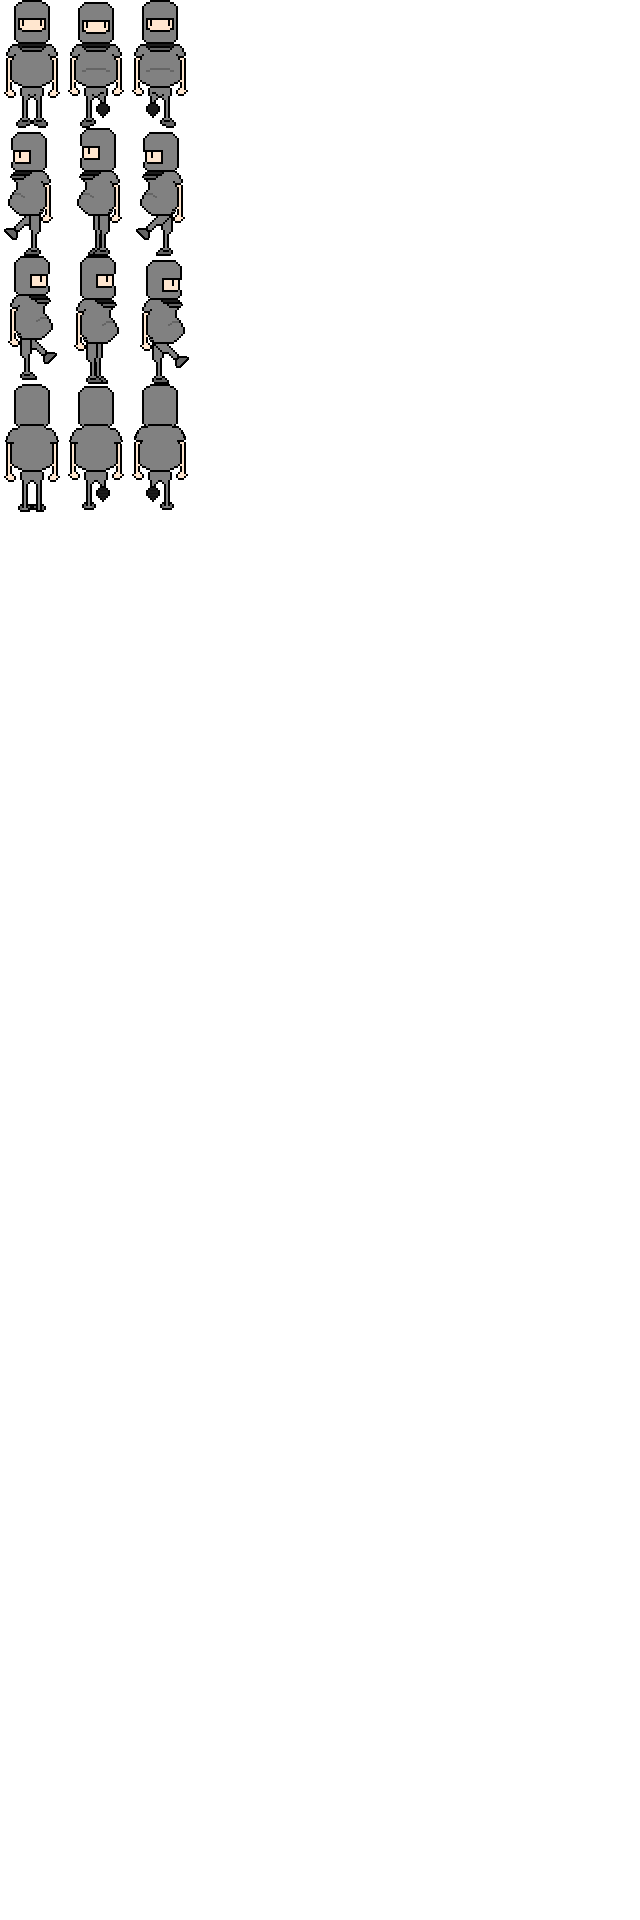
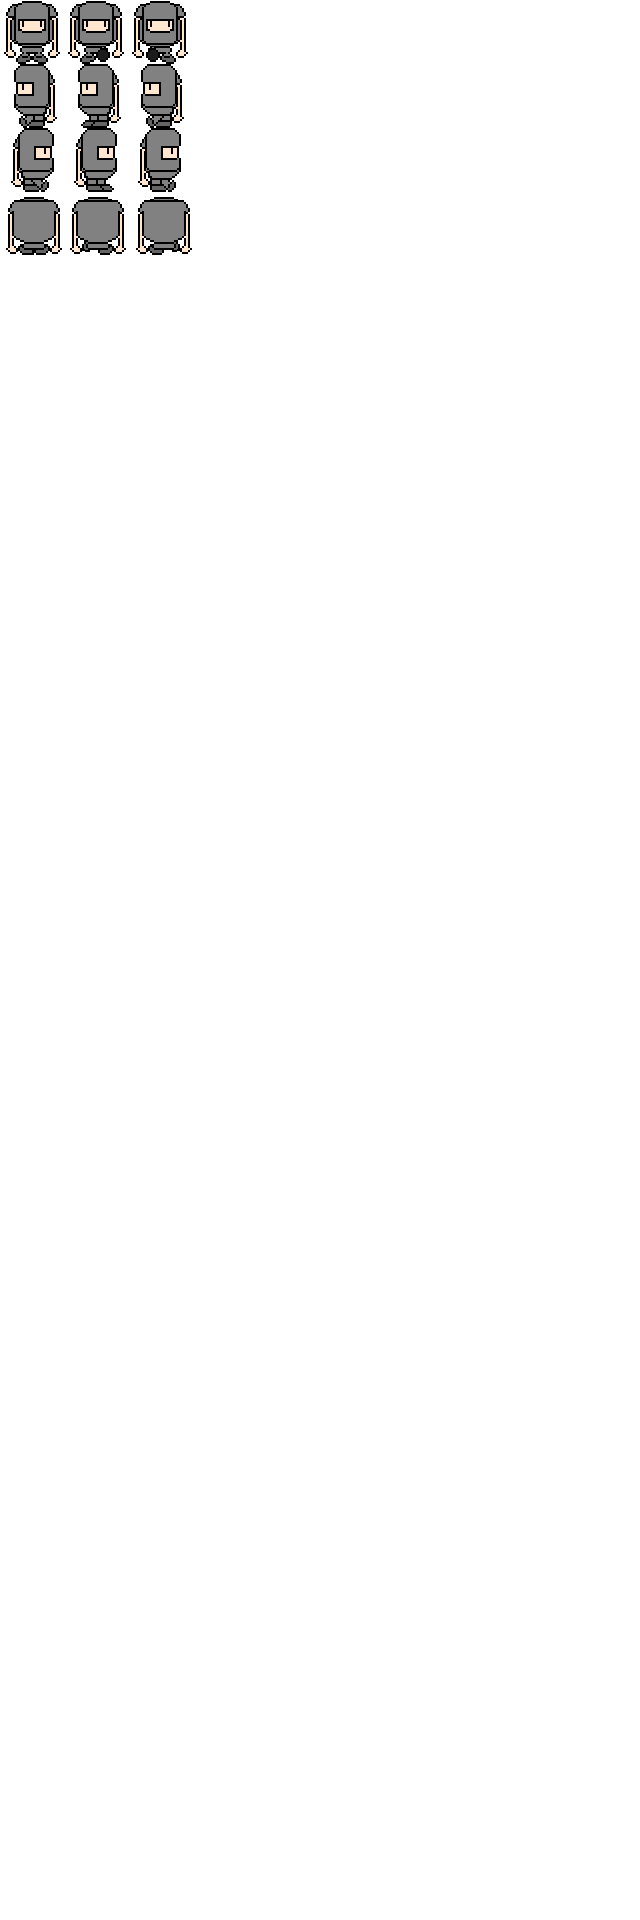
v 0.3.18
Map generation

Changed region(s): [[0.0, 0.0, 0.3125, 0.2812]]

diff --git a/src/com/bourneless/roguelike/map/Map.java b/src/com/bourneless/roguelike/map/Map.java
@@ -12,6 +12,7 @@ import com.bourneless.roguelike.entity.destroyableentity.Door;
 import com.bourneless.roguelike.entity.livingentity.player.Player;
 import com.bourneless.roguelike.map.tile.Tile;
 import com.bourneless.roguelike.map.tile.TileClass;
+import com.bourneless.roguelike.map.tile.TileType;
 import com.bourneless.roguelike.map.tile.WallTileType;
 
 public class Map {
@@ -55,6 +56,8 @@ public class Map {
 						room.getTiles()[i][j].getTileClass(), randomX + i,
 						randomY + j, room.getTiles()[i][j].getLayer());
 				tiles[randomX + i][randomY + j] = tile;
+				tiles[randomX + i][randomY + j].setRoom(true);
+				tiles[randomX + i][randomY + j].setUsed(true);
 				if (room.getTiles()[i][j].hasEntity()) {
 					ArrayList<Entity> entities = room.getTiles()[i][j]
 							.getEntities();
@@ -63,36 +66,6 @@ public class Map {
 					}
 				}
 
-			}
-		}
-		boolean wallHasDoor = false;
-		for (int i = 0; i < tiles.length; i++) {
-			for (int j = 0; j < tiles[i].length; j++) {
-				if (tiles[i][j].getTileClass() == TileClass.WALL) {
-					if (j < tiles[i].length - 1) {
-						if (tiles[i][j + 1].getTileClass() == TileClass.FLOOR) {
-							int spawnDoor = random.nextInt(20);
-							if (spawnDoor == 1 && !wallHasDoor) {
-								wallHasDoor = true;
-								Door door = new Door(tiles[i][j],
-										Main.resourceLoader.door[0]);
-								tiles[i][j].addEntity(door);
-								entities.add(door);
-								tiles[i][j].setTileClass(TileClass.FLOOR);
-								tiles[i][j - 1].setTileClass(TileClass.FLOOR);
-								tiles[i][j - 1].setTileType(tiles[i][j + 1]
-										.getTileType());
-								tiles[i][j - 2].setTileClass(TileClass.FLOOR);
-								tiles[i][j - 2].setTileType(tiles[i][j + 1]
-										.getTileType());
-								tiles[i][j - 1].setPassable(true);
-								tiles[i][j - 2].setPassable(true);
-								tiles[i][j].setTileType(tiles[i][j + 1]
-										.getTileType());
-							}
-						}
-					}
-				}
 			}
 		}
 
@@ -107,6 +80,8 @@ public class Map {
 			createRoom(i);
 		}
 
+		createTunnels();
+		createDoors();
 	}
 
 	public void createRoom(int rm) {
@@ -127,39 +102,9 @@ public class Map {
 					if (randomX + i + 1 < tiles.length
 							&& randomY + j + 1 < tiles[0].length
 							&& randomY - 1 > 0 && randomX - 1 > 0) {
-						if (tiles[randomX + i][randomY + j].getTileClass() != TileClass.WALL) {
-							System.out.println("setting randomX Y");
+						if (tiles[randomX + i][randomY + j].getUsed()) {
 							randomX = 0;
 							randomY = 0;
-						}
-						if (randomX + i - 1 > 0) {
-							if (tiles[randomX + i - 1][randomY + j]
-									.getTileClass() != TileClass.WALL) {
-								randomX = 0;
-								randomY = 0;
-							}
-						}
-						if (randomX + i + 1 < tiles.length) {
-							if (tiles[randomX + i + 1][randomY + j]
-									.getTileClass() != TileClass.WALL) {
-								randomX = 0;
-								randomY = 0;
-							}
-						}
-
-						if (randomY + j + 1 > tiles.length) {
-							if (tiles[randomX + i][randomY + j + 1]
-									.getTileClass() != TileClass.WALL) {
-								randomX = 0;
-								randomY = 0;
-							}
-						}
-						if (randomY + j - 1 > 0) {
-							if (tiles[randomX + i][randomY + j - 1]
-									.getTileClass() != TileClass.WALL) {
-								randomX = 0;
-								randomY = 0;
-							}
 						}
 					}
 				}
@@ -175,6 +120,8 @@ public class Map {
 								+ i, randomY + j,
 						room.getTiles()[i][j].getLayer());
 				tiles[randomX + i][randomY + j] = tile;
+				tiles[randomX + i][randomY + j].setRoom(true);
+				tiles[randomX + i][randomY + j].setUsed(true);
 				if (extraRooms[rm].getTiles()[i][j].hasEntity()) {
 					ArrayList<Entity> entities = extraRooms[rm].getTiles()[i][j]
 							.getEntities();
@@ -185,37 +132,41 @@ public class Map {
 
 			}
 		}
-		boolean wallHasDoor = false;
+	}
+
+	public void createTunnels() {
 		for (int i = 0; i < tiles.length; i++) {
-			for (int j = 0; j < tiles[i].length; j++) {
-				if (tiles[i][j].getTileClass() == TileClass.WALL) {
-					if (j < tiles[i].length - 1) {
-						if (tiles[i][j + 1].getTileClass() == TileClass.FLOOR) {
-							int spawnDoor = random.nextInt(20);
-							if (spawnDoor == 1 && !wallHasDoor) {
-								wallHasDoor = true;
-								Door door = new Door(tiles[i][j],
-										Main.resourceLoader.door[0]);
-								tiles[i][j].addEntity(door);
-								entities.add(door);
-								tiles[i][j].setTileClass(TileClass.FLOOR);
-								tiles[i][j - 1].setTileClass(TileClass.FLOOR);
-								tiles[i][j - 1].setTileType(tiles[i][j + 1]
-										.getTileType());
-								tiles[i][j - 2].setTileClass(TileClass.FLOOR);
-								tiles[i][j - 2].setTileType(tiles[i][j + 1]
-										.getTileType());
-								tiles[i][j - 1].setPassable(true);
-								tiles[i][j - 2].setPassable(true);
-								tiles[i][j].setTileType(tiles[i][j + 1]
-										.getTileType());
-							}
+			for (int j = 0; j < tiles.length; j++) {
+				if (i > 2 && j > 2 && i < tiles.length - 2
+						&& j < tiles[i].length - 2) {
+					if (tiles[i][j].getTileClass() == TileClass.WALL) {
+						if (!tiles[i][j].getRoom()) {
+							tiles[i][j].setTileClass(TileClass.FLOOR);
+							tiles[i][j].setTileType(TileType.WOOD_FLOOR);
+							tiles[i][j].setPassable(true);
 						}
 					}
 				}
 			}
 		}
+	}
 
+	public void createDoors() {
+		for (int i = 0; i < tiles.length; i++) {
+			for (int j = 0; j < tiles[i].length; j++) {
+				if (tiles[i][j].getTileClass() == TileClass.WALL) {
+					int spawnDoor = random.nextInt(10);
+					if (spawnDoor == 1) {
+						Door door = new Door(tiles[i][j],
+								Main.resourceLoader.door[0]);
+						tiles[i][j].addEntity(door);
+						entities.add(door);
+						tiles[i][j].setTileClass(TileClass.FLOOR);
+						tiles[i][j].setTileType(TileType.WOOD_FLOOR);
+					}
+				}
+			}
+		}
 	}
 
 	public void update(int xOffset, int yOffset) {

diff --git a/src/com/bourneless/roguelike/entity/FieldOfView.java b/src/com/bourneless/roguelike/entity/FieldOfView.java
@@ -8,7 +8,7 @@ import com.bourneless.roguelike.map.tile.TileClass;
 public class FieldOfView {
 
 	private Map map;
-	
+
 	public void CheckFieldOfView(Map map, Player player) {
 		float x, y;
 		for (int i = 0; i < map.getTiles().length; i++) {
@@ -32,12 +32,7 @@ public class FieldOfView {
 		oy = (float) player.getTile().getTileY() + 0.5f;
 
 		for (i = 0; i < player.getViewDistance(); i++) {
-			if(oy < 2) {
-				oy = 2;
-			} else if (oy > map.getTiles()[0].length) {
-				oy = map.getTiles()[0].length;
-			}
-			
+			 try {
 			map.getTiles()[(int) ox][(int) oy].setVisible(true);
 			map.getTiles()[(int) ox][(int) oy].setSeen();
 
@@ -55,6 +50,9 @@ public class FieldOfView {
 			}
 			ox += x;
 			oy += y;
+			 } catch (Exception e) {
+				 e.printStackTrace();
+			 }
 		}
 	}
 }

diff --git a/src/com/bourneless/roguelike/map/tile/Tile.java b/src/com/bourneless/roguelike/map/tile/Tile.java
@@ -23,9 +23,12 @@ public class Tile {
 	private boolean beenSeen = false;
 	private int layer = 0;
 	private int entityLayer = 0;
+	private boolean room = false;
 
 	private ArrayList<Entity> entities = new ArrayList<Entity>();
 	private boolean hasEntity = false;
+
+	private boolean used = false;
 
 	private boolean passable; // If the tile can be used by Player and Entities.
 
@@ -190,4 +193,19 @@ public class Tile {
 		this.tileClass = tileclass;
 	}
 
+	public void setUsed(boolean bool) {
+		this.used = bool;
+	}
+
+	public boolean getUsed() {
+		return this.used;
+	}
+	
+	public boolean getRoom() {
+		return this.room;
+	}
+	
+	public void setRoom(boolean bool) {
+		this.room = bool;
+	}
 }

diff --git a/src/com/bourneless/engine/main/ResourceLoader.java b/src/com/bourneless/engine/main/ResourceLoader.java
@@ -121,8 +121,8 @@ public class ResourceLoader {
 
 		for (int i = 0; i < rows; i++) {
 			for (int j = 0; j < cols; j++) {
-				player[iteration] = playerSheet.getSubimage(j * 64, i * 128,
-						64, 128);
+				player[iteration] = playerSheet.getSubimage(j * 64, i * 64,
+						64, 64);
 				iteration++;
 			}
 		}
@@ -153,8 +153,8 @@ public class ResourceLoader {
 
 		for (int i = 0; i < rows; i++) {
 			for (int j = 0; j < cols; j++) {
-				door[iteration] = doorSheet.getSubimage(j * 64, i * 128, 64,
-						128);
+				door[iteration] = doorSheet.getSubimage(j * 64, i * 64, 64,
+						64);
 				iteration++;
 			}
 		}

diff --git a/src/com/bourneless/roguelike/entity/destroyableentity/Door.java b/src/com/bourneless/roguelike/entity/destroyableentity/Door.java
@@ -18,9 +18,9 @@ public class Door extends DestroyableEntity {
 	
 	public void paint(Graphics2D g) {
 		if(broken) {
-			g.drawImage(Main.resourceLoader.door[1], pos.x + xOffset, pos.y + yOffset - image.getHeight() / 2, null);
+			g.drawImage(Main.resourceLoader.door[1], pos.x + xOffset, pos.y + yOffset, null);
 		} else {
-			g.drawImage(Main.resourceLoader.door[0], pos.x + xOffset, pos.y + yOffset - image.getHeight() / 2, null);
+			g.drawImage(Main.resourceLoader.door[0], pos.x + xOffset, pos.y + yOffset, null);
 		}
 	}
 

diff --git a/src/com/bourneless/roguelike/entity/Entity.java b/src/com/bourneless/roguelike/entity/Entity.java
@@ -43,8 +43,7 @@ public class Entity {
 	}
 
 	public void paint(Graphics2D g) {
-		g.drawImage(image, pos.x + xOffset, pos.y + yOffset - image.getHeight()
-				/ 2, null);
+		g.drawImage(image, pos.x + xOffset, pos.y + yOffset, null);
 	}
 
 	public Tile getTile() {

diff --git a/src/com/bourneless/roguelike/entity/EntityType.java b/src/com/bourneless/roguelike/entity/EntityType.java
@@ -5,4 +5,5 @@ public class EntityType {
 	public static final int ENEMY = 1;
 	public static final int FIXED = 2;
 	public static final int BREAKABLE = 3;
+	public static final int DOOR = 4;
 }
